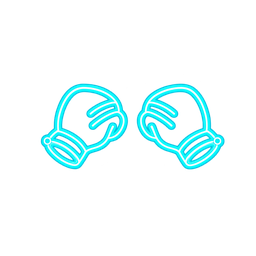
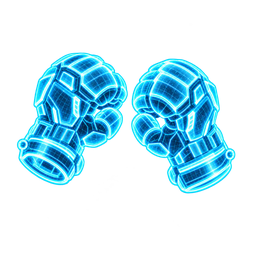
feat(ui): match Boxer Gloves hologram in Mobile and Lite
Install the redesigned segmented gauntlet sprite in both clients and
refresh the pinned item hashes against Holocity's Boxer-only update.

Changed region(s): [[0.0625, 0.1875, 0.9375, 0.7812]]

diff --git a/Documentation/QA/2026-10-23-parts-holographic-2/README.md b/Documentation/QA/2026-10-23-parts-holographic-2/README.md
@@ -7,3 +7,5 @@ The nine exact `part.*` listing IDs now use the approved transparent holographic
 Local checks: Mobile `npm run typecheck` green; Vitest **1573 passed / 3 skipped** (117 files passed, 1 skipped); `verify-holo-ui.mjs` green for 105 indexed icons and all nine standard Part copies. Known-bad stale City source refused at `part.combatMask` before copy; `part.boxerGloves` hash unchanged across the failed attempt. Source-sync from the City companion checkout passed, then the verifier passed. A full simulator/card witness is for the Mobile reviewer; the user-visible art is captured in the vault contact sheet. No deploy or account use.
 
 The on-bot 3D overlay lane is separate; changing inventory sprites does not attach any projection to a bot rig.
+
+Pak's Boxer Gloves follow-up replaces only `part.boxerGloves` in standard Mobile and Lite with a deeper, segmented cyan wireframe gauntlet pair. The outgoing holographic version is archived at `/Users/pak/HolobotsVault/UI/workshop-part-icons-holographic/archive/boxer-v1/`; the refreshed contact sheet retains the same vault path above. City and Mobile pinned hashes were updated together, and all eight other Part image hashes stayed identical.
